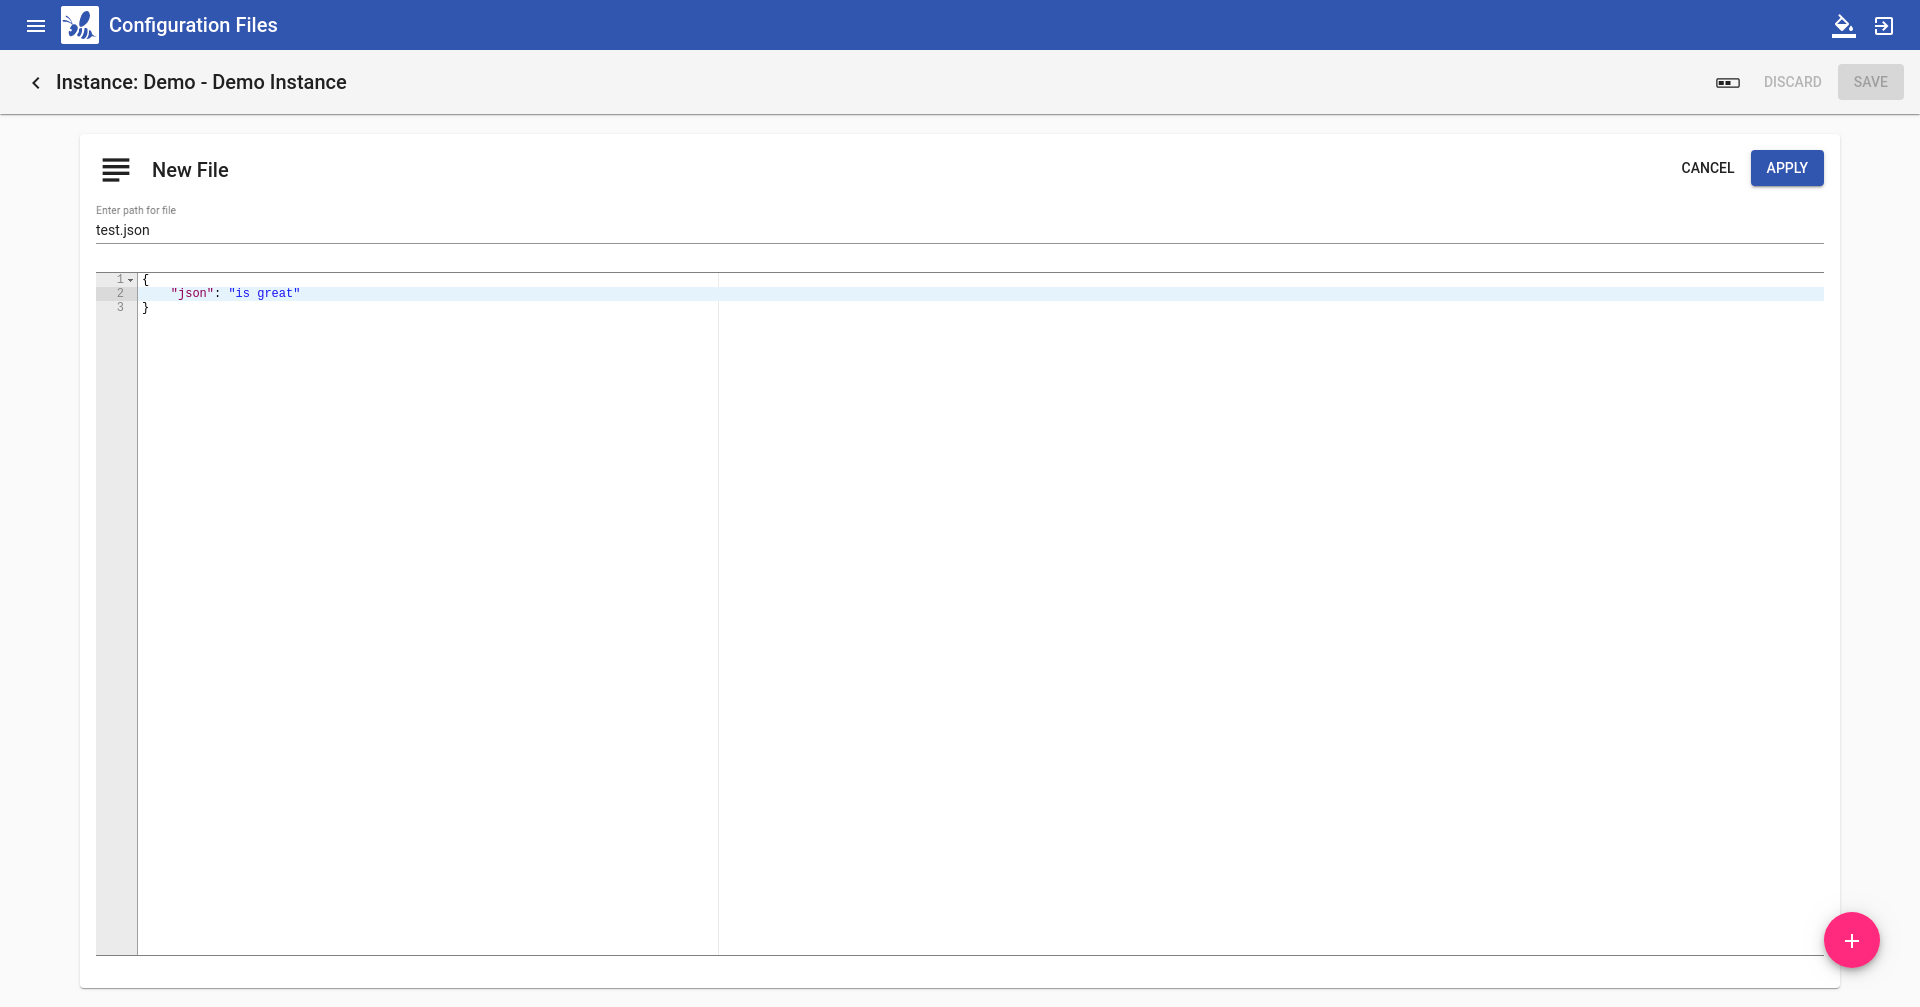
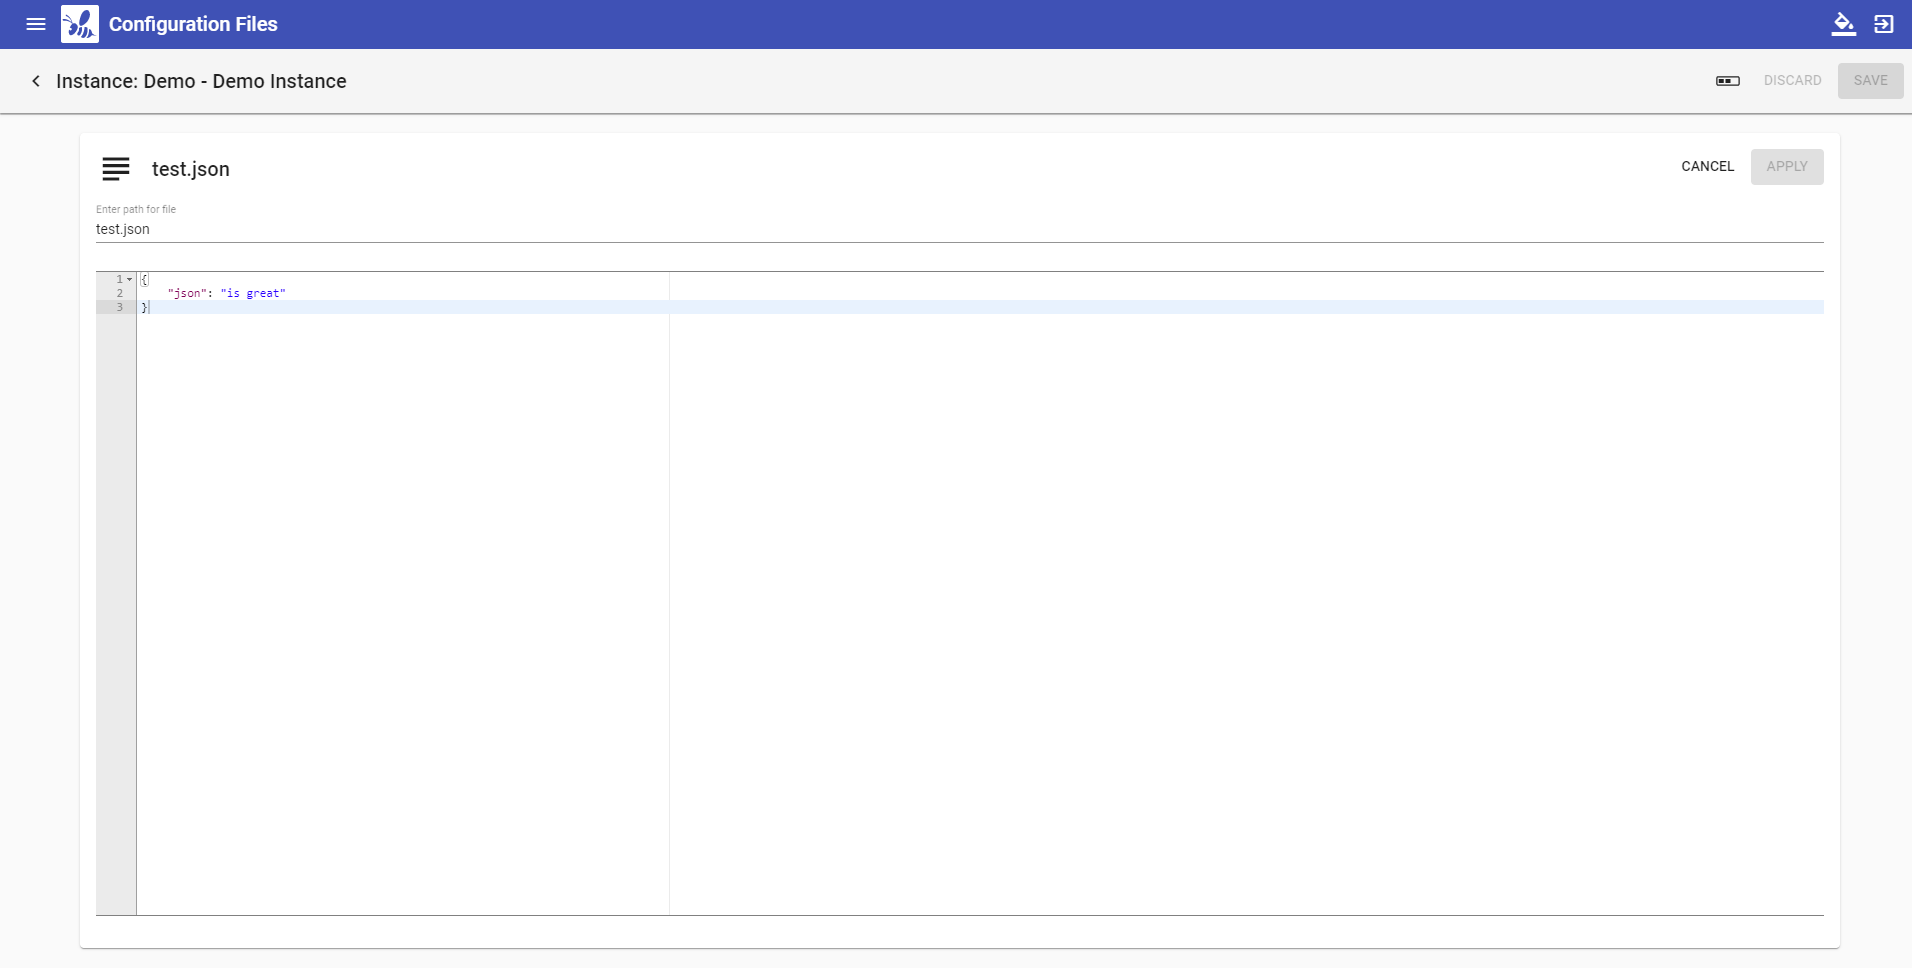
ConfigFiles: Update documentation fix minor issues
*) Detect the case that an existing file is uploaded again. In that case
we simply replace the file.

*) Hide "Add" and "Upload" button when editing files

*) Disable "Apply" button when the editor is not valid.

Request: DCS-700

Changed region(s): [[0.0, 0.0, 1.0, 0.186], [0.0309, 0.155, 0.9566, 0.3099], [0.9257, 0.8988, 0.9874, 0.9917]]

diff --git a/ui/webapp/src/app/config-files-browser/config-files-browser.component.ts b/ui/webapp/src/app/config-files-browser/config-files-browser.component.ts
@@ -23,7 +23,6 @@ import { Logger, LoggingService } from '../services/logging.service';
 import { MessageboxService } from '../services/messagebox.service';
 import { ThemeService } from '../services/theme.service';
 
-
 export class ConfigFileStatus {
   type: FileStatusType;
   content: string;
@@ -37,10 +36,9 @@ export const EMPTY_CONFIG_FILE_STATUS: ConfigFileStatus = {
 @Component({
   selector: 'app-config-files-browser',
   templateUrl: './config-files-browser.component.html',
-  styleUrls: ['./config-files-browser.component.css']
+  styleUrls: ['./config-files-browser.component.css'],
 })
 export class ConfigFilesBrowserComponent implements OnInit, OnDestroy, CanComponentDeactivate {
-
   private log: Logger = this.loggingService.getLogger('ConfigFilesBrowserComponent');
 
   groupParam: string = this.route.snapshot.paramMap.get('group');
@@ -70,7 +68,7 @@ export class ConfigFilesBrowserComponent implements OnInit, OnDestroy, CanCompon
     ['xml', 'xml'],
     ['bat', 'batchfile'],
     ['yaml', 'yaml'],
-    ['sh', 'sh']
+    ['sh', 'sh'],
   ]);
   public editorTheme = '';
 
@@ -94,12 +92,13 @@ export class ConfigFilesBrowserComponent implements OnInit, OnDestroy, CanCompon
     private viewContainerRef: ViewContainerRef,
   ) {}
 
-
   public ngOnInit(): void {
     // get instance version
-    this.instanceService.getInstanceVersion(this.groupParam, this.uuidParam, this.versionParam).subscribe(
-      instanceVersion => {this.instanceVersion = instanceVersion; }
-    );
+    this.instanceService
+      .getInstanceVersion(this.groupParam, this.uuidParam, this.versionParam)
+      .subscribe(instanceVersion => {
+        this.instanceVersion = instanceVersion;
+      });
 
     // get list of config files
     this.reload();
@@ -126,10 +125,14 @@ export class ConfigFilesBrowserComponent implements OnInit, OnDestroy, CanCompon
     this.statusCache.clear();
     this.typeCache.clear();
 
-    this.instanceService.listConfigurationFiles(this.groupParam, this.uuidParam, this.versionParam).subscribe(configFilePaths => { configFilePaths.forEach(p => {
-      this.statusCache.set(p.path, cloneDeep(EMPTY_CONFIG_FILE_STATUS));
-      this.typeCache.set(p.path, p.isText);
-    }); });
+    this.instanceService
+      .listConfigurationFiles(this.groupParam, this.uuidParam, this.versionParam)
+      .subscribe(configFilePaths => {
+        configFilePaths.forEach(p => {
+          this.statusCache.set(p.path, cloneDeep(EMPTY_CONFIG_FILE_STATUS));
+          this.typeCache.set(p.path, p.isText);
+        });
+      });
   }
 
   public ngOnDestroy(): void {
@@ -137,10 +140,10 @@ export class ConfigFilesBrowserComponent implements OnInit, OnDestroy, CanCompon
   }
 
   public duplicateNameValidator(): ValidatorFn {
-    return (control: AbstractControl): {[key: string]: any} | null => {
+    return (control: AbstractControl): { [key: string]: any } | null => {
       const cached = this.statusCache.get(control.value);
       const duplicate = cached && control.value !== this.editKey;
-      return duplicate ? {'duplicate': {value: control.value}} : null;
+      return duplicate ? { duplicate: { value: control.value } } : null;
     };
   }
 
@@ -159,7 +162,7 @@ export class ConfigFilesBrowserComponent implements OnInit, OnDestroy, CanCompon
 
   public addFile(): void {
     this.editKey = null;
-    this.configFileFormGroup.setValue({path: ''});
+    this.configFileFormGroup.setValue({ path: '' });
     this.editorContent = '';
     this.editMode = true;
   }
@@ -170,17 +173,18 @@ export class ConfigFilesBrowserComponent implements OnInit, OnDestroy, CanCompon
     this.editMode = true;
     this.editText = this.typeCache.get(path);
 
-    const intialName = copy ? path + ' (copy)' : path;
+    const initialName = copy ? path + ' (copy)' : path;
     if (cached.content) {
-      this.configFileFormGroup.setValue({path: intialName});
+      this.configFileFormGroup.setValue({ path: initialName });
       this.editorContent = cached.content;
     } else {
-      this.instanceService.getConfigurationFile(this.groupParam, this.uuidParam, this.versionParam, path).subscribe(
-        content => {
+      this.instanceService
+        .getConfigurationFile(this.groupParam, this.uuidParam, this.versionParam, path)
+        .subscribe(content => {
           if (this.typeCache.get(path)) {
             content = Base64.decode(content);
           }
-          this.configFileFormGroup.setValue({path: intialName});
+          this.configFileFormGroup.setValue({ path: initialName });
           this.editorContent = content;
           this.originalContentCache.set(path, content);
         });
@@ -203,7 +207,8 @@ export class ConfigFilesBrowserComponent implements OnInit, OnDestroy, CanCompon
         const originalContent = this.originalContentCache.get(this.editKey);
         if (this.editorContent === originalContent) {
           cached.type = null;
-        } else if (!cached.type) { // set if unset, keep ADD, can't be DELETE
+        } else if (!cached.type) {
+          // set if unset, keep ADD, can't be DELETE
           cached.type = FileStatusType.EDIT;
         }
         cached.content = this.editorContent;
@@ -306,7 +311,9 @@ export class ConfigFilesBrowserComponent implements OnInit, OnDestroy, CanCompon
   public isDirty(): boolean {
     const values: ConfigFileStatus[] = Array.from(this.statusCache.values());
     let changeCount = 0;
-    values.forEach(v => { changeCount += v.type ? 1 : 0; });
+    values.forEach(v => {
+      changeCount += v.type ? 1 : 0;
+    });
     return changeCount > 0;
   }
 
@@ -339,18 +346,21 @@ export class ConfigFilesBrowserComponent implements OnInit, OnDestroy, CanCompon
       const dto: FileStatusDto = {
         type: value.type,
         content: value.type === FileStatusType.DELETE ? null : c,
-        file: key
+        file: key,
       };
 
       result.push(dto);
     });
 
-    this.instanceService.updateConfigurationFiles(this.groupParam, this.uuidParam, this.versionParam, result)
-    .subscribe(_ => {
-      this.statusCache.clear(); // avoid isDirty
-      this.log.info('stored configuration files for ' + this.groupParam + ', ' + this.uuidParam + ', ' + this.versionParam);
-      this.location.back();
-    });
+    this.instanceService
+      .updateConfigurationFiles(this.groupParam, this.uuidParam, this.versionParam, result)
+      .subscribe(_ => {
+        this.statusCache.clear(); // avoid isDirty
+        this.log.info(
+          'stored configuration files for ' + this.groupParam + ', ' + this.uuidParam + ', ' + this.versionParam,
+        );
+        this.location.back();
+      });
   }
 
   async onDiscardChanges(): Promise<void> {
@@ -366,14 +376,17 @@ export class ConfigFilesBrowserComponent implements OnInit, OnDestroy, CanCompon
     this.location.back();
   }
 
-
   /** Opens a modal overlay popup showing the given template */
   openOverlay(template: TemplateRef<any>) {
     this.closeOverlay();
 
     this.overlayRef = this.overlay.create({
-      positionStrategy: this.overlay.position().global().centerHorizontally().centerVertically(),
-      hasBackdrop: true
+      positionStrategy: this.overlay
+        .position()
+        .global()
+        .centerHorizontally()
+        .centerVertically(),
+      hasBackdrop: true,
     });
 
     const portal = new TemplatePortal(template, this.viewContainerRef);
@@ -411,15 +424,25 @@ export class ConfigFilesBrowserComponent implements OnInit, OnDestroy, CanCompon
 
     const reader = new FileReader();
     reader.onload = ev => {
-      const status = cloneDeep(EMPTY_CONFIG_FILE_STATUS);
-      status.type = FileStatusType.ADD;
+      let status = this.statusCache.get(name);
+
+      // We need to handle two cases here.
+      // -> New files that are uploaded
+      // -> Replacing of existing files by uploading the same file again
+      // -> Files in status ADD will remain in ADD if they are uploaded again
+      if (!status) {
+        status = cloneDeep(EMPTY_CONFIG_FILE_STATUS);
+        status.type = FileStatusType.ADD;
+        this.statusCache.set(name, status);
+      } else if (status.type !== FileStatusType.ADD) {
+        status.type = FileStatusType.EDIT;
+      }
+
       const result = reader.result.toString();
       status.content = result.substr(result.indexOf(',') + 1);
-      this.statusCache.set(name, status);
       this.typeCache.set(name, false);
       this.closeOverlay();
     };
     reader.readAsDataURL(fileInput.files.item(0));
   }
-
 }

diff --git a/ui/webapp/src/app/config-files-browser/config-files-browser.component.html b/ui/webapp/src/app/config-files-browser/config-files-browser.component.html
@@ -70,7 +70,7 @@
         <span class="fill-space"></span>
         <span>
           <button mat-button type="button" (click)="onCancelChanges()">CANCEL</button>
-          <button mat-raised-button color="primary" type="submit" [disabled]="!isEditorDirty()">APPLY</button>
+          <button mat-raised-button color="primary" type="submit" [disabled]="!isEditorDirty() || !configFileFormGroup.valid">APPLY</button>
         </span>
       </mat-card-header>
       <mat-card-content class="config-card-content">
@@ -84,10 +84,10 @@
     </form>
   </mat-card>
 
-  <button mat-fab class="add-button" (click)="addFile()">
+  <button mat-fab class="add-button" (click)="addFile()" *ngIf="!editMode">
     <mat-icon>add</mat-icon>
   </button>
-  <button mat-fab class="upload-button" (click)="openOverlay(uploadDialog)" color="primary">
+  <button mat-fab class="upload-button" (click)="openOverlay(uploadDialog)" color="primary" *ngIf="!editMode">
     <mat-icon>cloud_upload</mat-icon>
   </button>
 </div>
